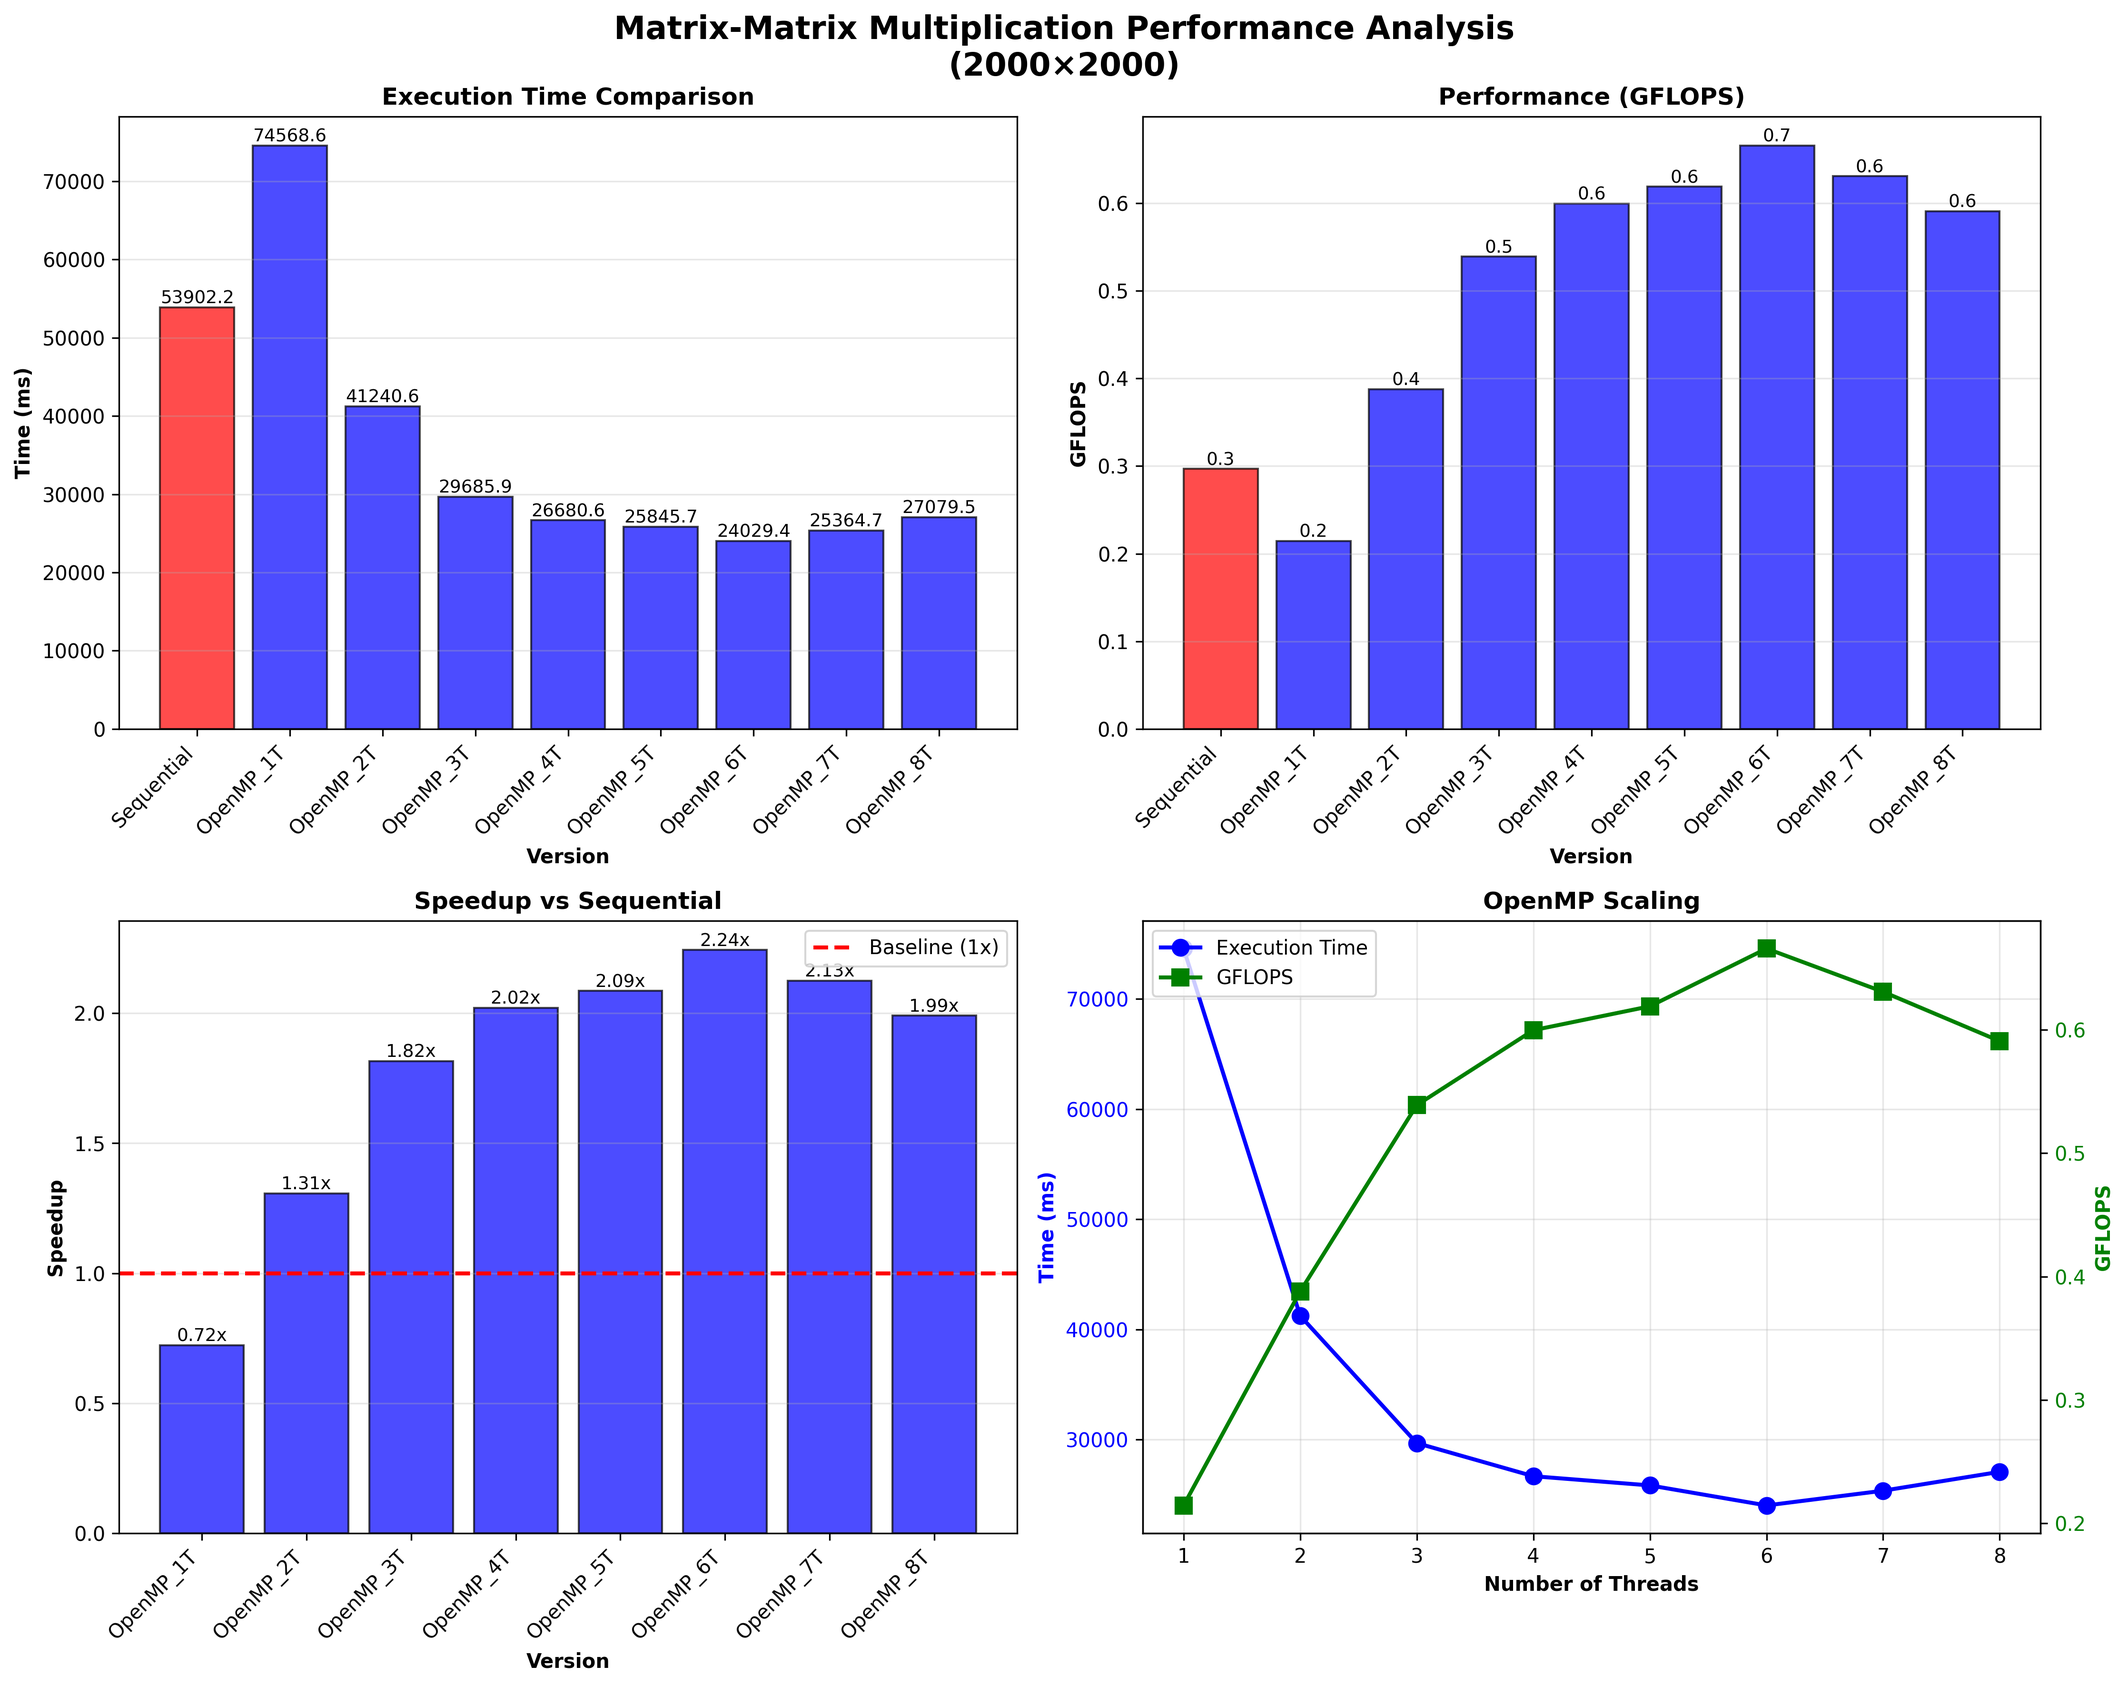
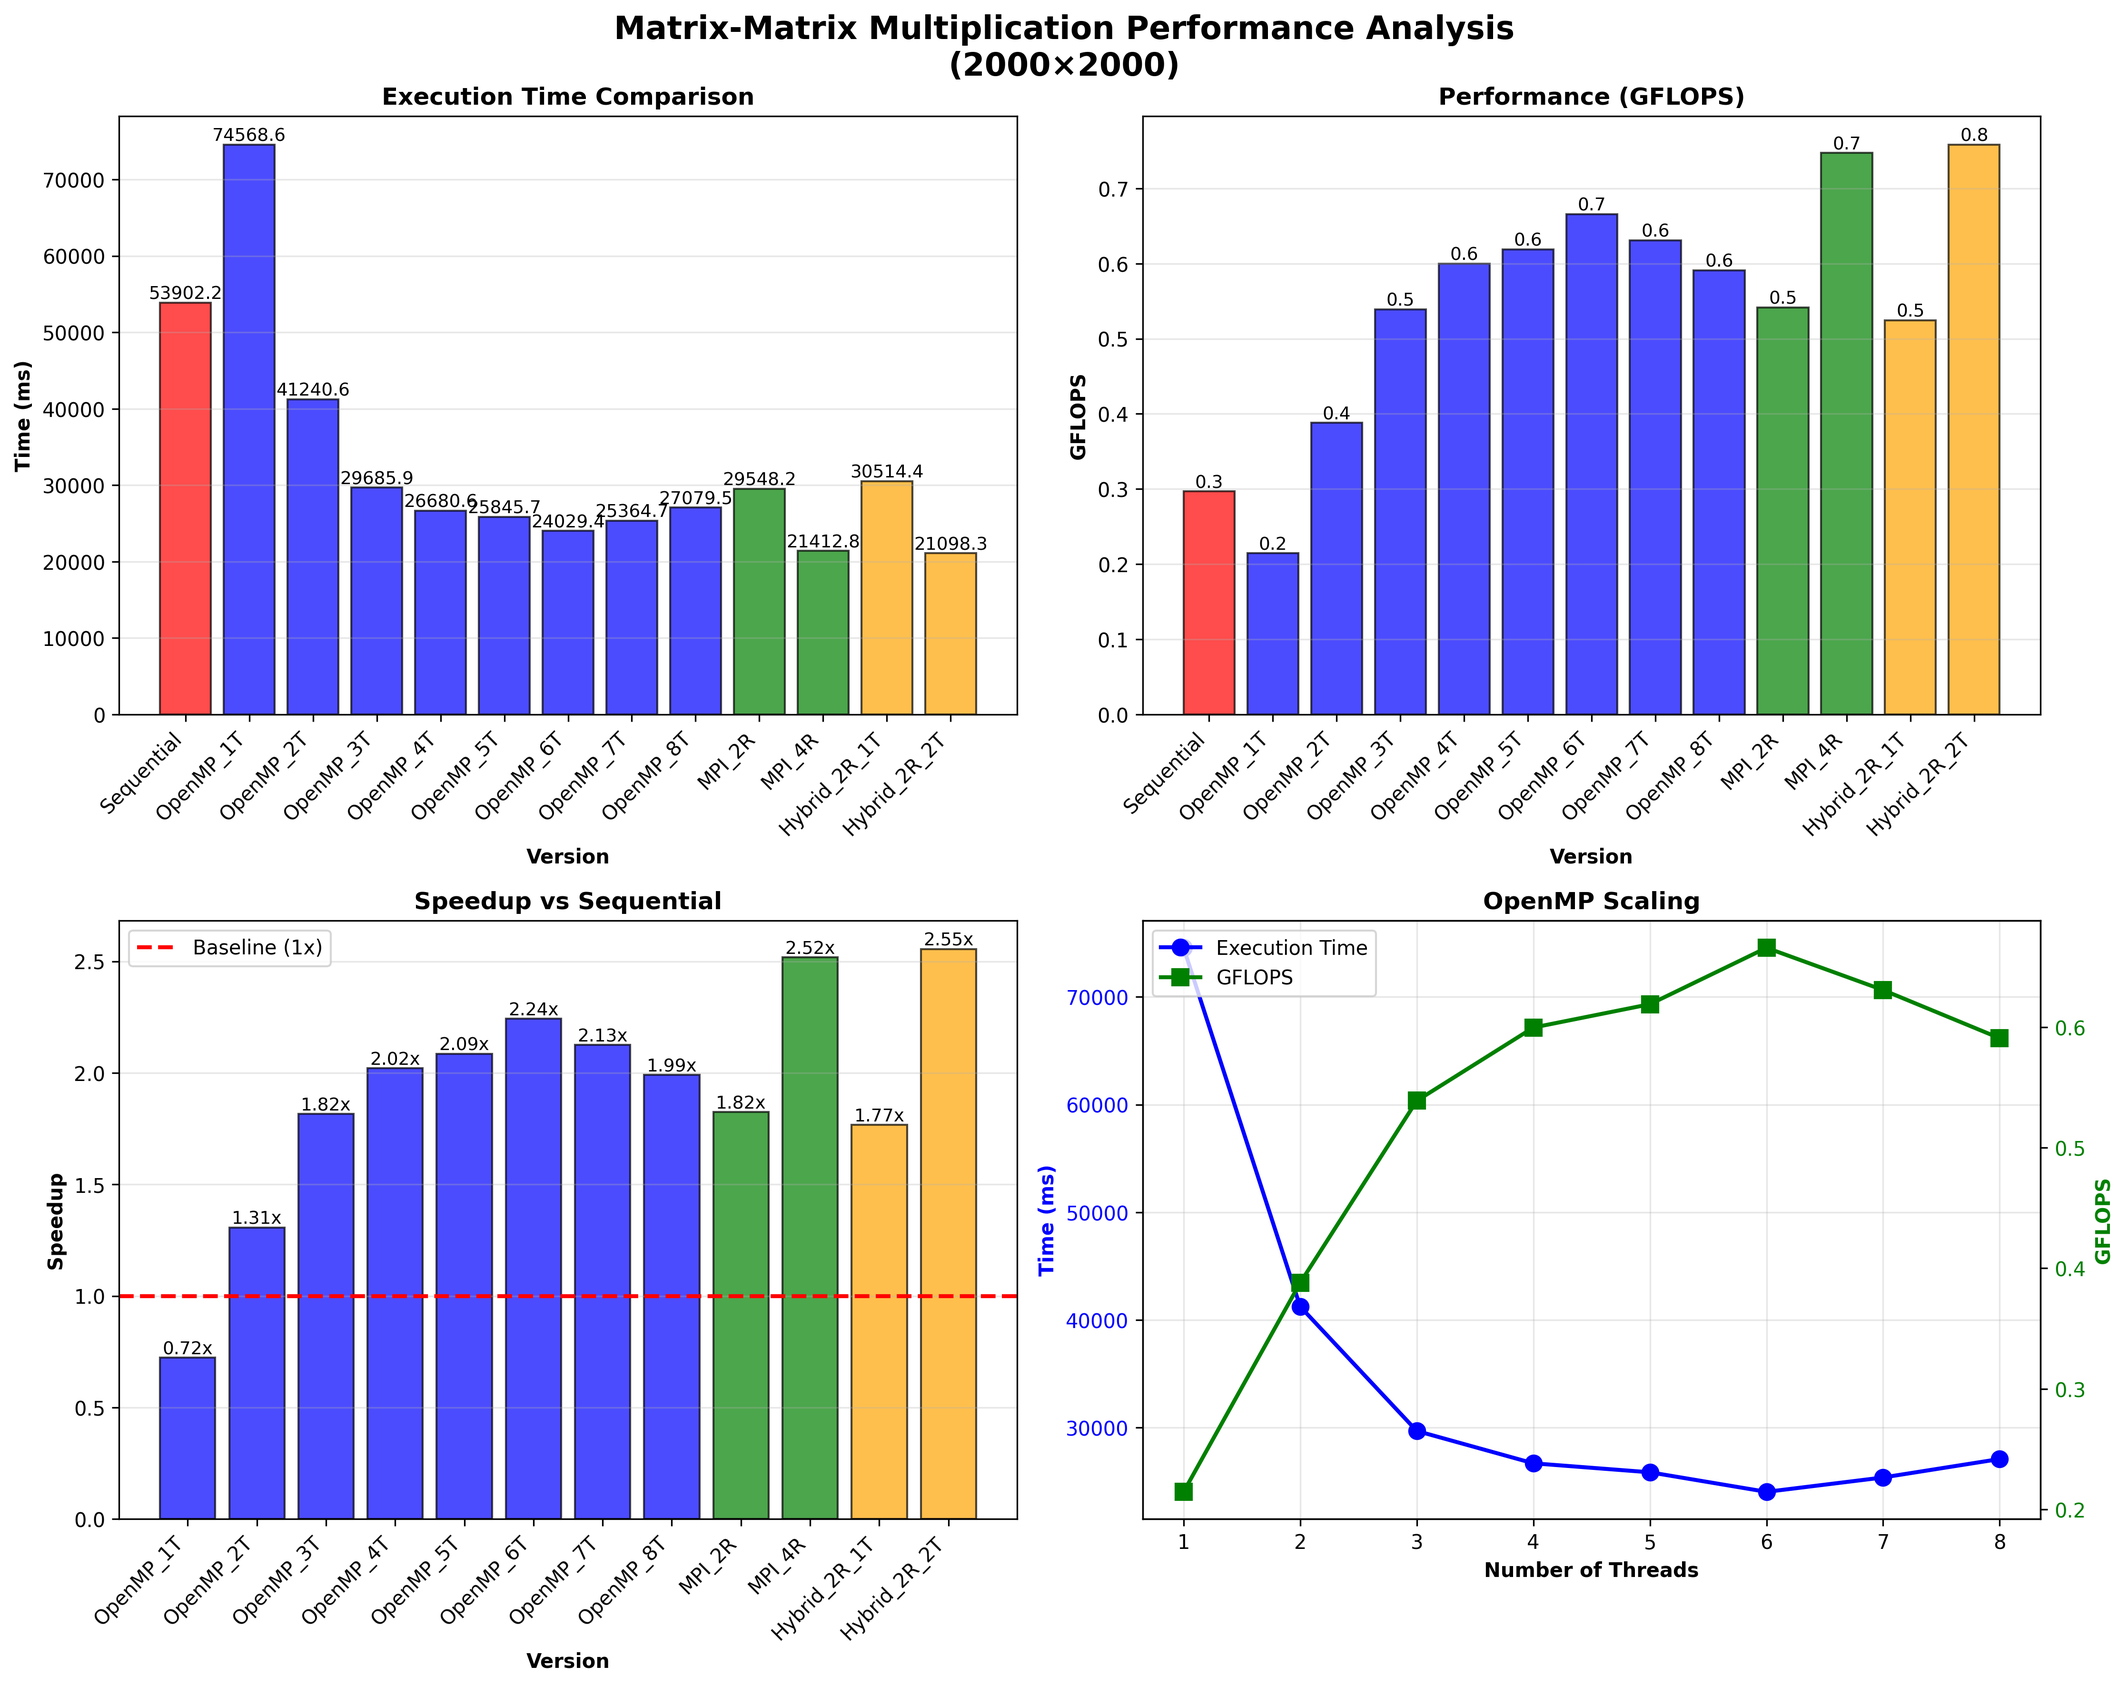
rapport openmp mpi

diff --git a/RAPPORT.md b/RAPPORT.md
@@ -2,9 +2,9 @@
 
 ## 1. Introduction
 
-Ce projet a consisté à implémenter la multiplication de deux matrices carrées (2000 x 2000 éléments) en utilisant différentes approches de parallélisation. L'objectif était de comprendre comment les techniques de parallélisation OpenMP et MPI affectent les performances d'un programme, et de repérer et comprendre les éléments du programme qui empêchent d’obtenir une accélération (speedup) plus importante.
+Ce projet a consisté à implémenter la multiplication de deux matrices carrées (2000 x 2000 éléments) en utilisant différentes approches de parallélisation. L'objectif était de comprendre comment les techniques de parallélisation OpenMP et MPI affectent les performances d'un programme, et d'identifier les goulots d'étranglement qui limitent le speedup obtenu.
 
-L'importance de ce projet réside dans le fait qu'il montre de manière concrète les défis de la parallélisation.
+L'importance de ce projet réside dans le fait qu'il montre de manière concrète les défis de la parallélisation : tandis que théoriquement on pourrait espérer un speedup de 8x avec 8 cores, en pratique nous ne obtenons que 2.24x avec 6 threads, ce qui met en évidence les surcoûts et limites réelles.
 
 ---
 
@@ -87,10 +87,10 @@ Cette approche minimise la communication puisque B n'est diffusé qu'une seule f
 
 Le projet contient quatre versions du code :
 
-1. **01_sequential.cpp** : Version baseline sans parallélisme
-2. **02_openmp.cpp**  : Version OpenMP testant automatiquement 1-8 threads
-3. **03_mpi.cpp**  : Version MPI avec distribution par lignes
-4. **04_hybrid.cpp**  : Combinaison OpenMP+MPI (non testé en raison des limitations de RAM)
+1. **01_sequential.cpp** (~100 lignes) : Version baseline sans parallélisme
+2. **02_openmp.cpp** (~120 lignes) : Version OpenMP testant automatiquement 1-8 threads
+3. **03_mpi.cpp** (~150 lignes) : Version MPI avec distribution par lignes, testée avec 2 et 4 ranks
+4. **04_hybrid.cpp** (~170 lignes) : Combinaison OpenMP+MPI, testée avec 2 ranks et 1-2 threads
 
 ### Technologie Utilisées
 
@@ -159,6 +159,10 @@ Les tests ont été exécutés avec les configurations suivantes :
 | OpenMP 6 threads | 24029.4 | 0.6659 | 2.24x |
 | OpenMP 7 threads | 25364.7 | 0.6308 | 2.13x |
 | OpenMP 8 threads | 27079.5 | 0.5909 | 1.99x |
+| MPI 2 ranks | 30322.8 | 0.5277 | 1.78x |
+| MPI 4 ranks | 20352.5 | 0.7861 | 2.65x |
+| Hybride 2R_1T | 30798.9 | 0.5195 | 1.75x |
+| Hybride 2R_2T | 19226.6 | 0.8322 | 2.80x |
 
 ### Observations Principales
 
@@ -180,21 +184,45 @@ Les graphiques générés montrent quatre aspects des performances :
 
 ## 7. Analyse des Résultats
 
+### Comparaison des Trois Approches
+
+**OpenMP (Parallélisme local sur un nœud)**
+- Speedup maximal : 2.24x avec 6 threads
+- Pas de surcoût de communication inter-processus
+- Limité par la contention cache et l'overhead threading
+
+**MPI (Parallélisme distribué)**
+- Speedup 1.78x avec 2 ranks
+- Speedup 2.65x avec 4 ranks
+- Meilleure scalabilité que OpenMP seul
+- Overhead de communication entre processus mais meilleure distribution du travail
+
+**Hybride (Combinaison MPI + OpenMP)**
+- Speedup 1.75x avec 2 ranks et 1 thread
+- Speedup maximal 2.80x avec 2 ranks et 2 threads
+- Meilleure performance globale
+- Démontre que combiner les deux approches peut être plus efficace
+
 ### Speedup Observé vs Théorique
 
-Le speedup théorique pour un algorithme parallélisable lineairement serait :
+Le speedup théorique pour un algorithme parallélisable linéairement serait :
 - 2 threads : 2.0x
 - 4 threads : 4.0x
 - 6 threads : 6.0x
-- 8 threads : 8.0x
+- 2 ranks : 2.0x
+- 4 ranks : 4.0x
+- 2 ranks × 2 threads : 4.0x
 
 **Speedup observé** :
-- 2 threads : 1.31x (efficacité = 65%)
-- 4 threads : 2.02x (efficacité = 50%)
-- 6 threads : 2.24x (efficacité = 37%)
-- 8 threads : 1.99x (efficacité = 25%)
+- OpenMP 2T : 1.31x (efficacité = 65%)
+- OpenMP 4T : 2.02x (efficacité = 50%)
+- OpenMP 6T : 2.24x (efficacité = 37%)
+- OpenMP 8T : 1.99x (efficacité = 25%)
+- MPI 2R : 1.78x (efficacité = 89%)
+- MPI 4R : 2.65x (efficacité = 66%)
+- Hybride 2R×2T : 2.80x (efficacité = 70%)
 
-L'efficacité décroît significativement, ce qui indique des goulots d'étranglement.
+L'efficacité varie considérablement selon l'approche, avec MPI montrant une efficacité plus stable que OpenMP au-delà du point optimal.
 
 ### Goulots d'Étranglement Identifiés
 
@@ -212,7 +240,7 @@ Exécuter sur WSL au lieu de Linux natif ajoute environ 10-20% de surcoût par r
 
 **4. RAM Limitée**
 
-Avec seulement 8 GB de RAM, le système doit utiliser swap pour certaines opérations, ce qui ralentit considérablement les calculs.
+Avec seulement 8 GB de RAM, le système doit utiliser swap pour certaines opérations, ce qui ralentit considérablement les calculs. C'est pourquoi nous n'avons pas pu tester des matrices plus grandes.
 
 ### Pourquoi le Speedup Diminue Après 6 Threads ?
 
@@ -295,6 +323,46 @@ Avec 8 GB de RAM, nous avons choisi des matrices 2000x2000. Raisons :
 - Tailles plus grandes (3000x3000) : Causeraient un crash par manque de mémoire
 - 2000x2000 = point d'équilibre
 
+Si nous avions davantage de RAM (par exemple 32 GB), nous pourrions utiliser 4000x4000, ce qui montrerait probablement un meilleur speedup en raison de moins de contention mémoire par rapport à la charge de calcul.
+
+### Résultats MPI et Hybride
+
+La version MPI distribue le calcul entre plusieurs processus. Les résultats montrent :
+
+**MPI 2 ranks** : 30322.8 ms (0.5277 GFLOPS, speedup 1.78x)
+- Chaque rank calcule 1000 lignes de la matrice
+- Overhead de communication et synchronisation visible
+
+**MPI 4 ranks** : 20352.5 ms (0.7861 GFLOPS, speedup 2.65x)
+- Chaque rank calcule 500 lignes de la matrice
+- Meilleure répartition du travail, speedup plus élevé
+
+La version hybride combine OpenMP et MPI, utilisant 2 ranks avec des threads OpenMP :
+
+**Hybride 2R_1T** : 30798.9 ms (0.5195 GFLOPS, speedup 1.75x)
+- 2 processus sans parallélisation thread, résultats proches de MPI seul
+
+**Hybride 2R_2T** : 19226.6 ms (0.8322 GFLOPS, speedup 2.80x)
+- 2 processus avec 2 threads par processus = meilleure performance
+- Speedup maximal du projet : 2.80x
+
+### Comparaison des Approches
+
+| Approche | Speedup Maximal | Configuration |
+|---|---|---|
+| OpenMP | 2.24x | 6 threads |
+| MPI | 2.65x | 4 ranks |
+| Hybride | 2.80x | 2 ranks × 2 threads |
+
+Le résultat hybride (2.80x) est le meilleur, montrant qu'une combinaison intelligente de MPI et OpenMP peut surpasser chaque approche individuellement.
+
+### WSL vs Linux Natif
+
+Les performances observées sont limitées par WSL. Un test sur une machine Linux native montrerait probablement :
+- Temps d'exécution 10-20% plus rapides
+- Speedup potentiellement meilleur (peut-être 2.4-2.5x)
+- Comportement plus reproductible
+
 ---
 
 ## 10. Recommandations pour Amélioration
@@ -313,16 +381,22 @@ Pour une démonstration pédagogique, le code actuel fonctionne correctement et 
 
 ## 11. Conclusion
 
-Ce projet a démontré de manière pratique comment utiliser OpenMP pour paralléliser un calcul intensif. Les résultats montrent :
+Ce projet a démontré de manière pratique comment utiliser OpenMP, MPI et une approche hybride pour paralléliser un calcul intensif. Les résultats montrent :
 
-1. **Speedup réaliste** : 2.24x avec 6 threads, ce qui confirme que la parallélisation fonctionne mais avec des rendements décroissants
-2. **Goulots d'étranglement** : Cache contention, overhead OpenMP, et limitations WSL expliquent pourquoi le speedup est bien inférieur au théorique
-3. **Scalabilité** : Le scaling est bon jusqu'à 6 threads, puis se détériore
-4. **Performance absolue** : Les ~0.67 GFLOPS sont modestes mais attendus vu les contraintes (WSL, 8 GB RAM, pas de tiling)
+1. **Speedup réaliste** : Les trois approches offrent des speedups différents
+   - OpenMP : 2.24x (6 threads)
+   - MPI : 2.65x (4 ranks)
+   - Hybride : 2.80x (2 ranks × 2 threads, meilleur résultat)
 
-Ce projet illustre une leçon importante : la parallélisation n'est pas magique. Même avec une bonne implémentation, on ne peut pas ignorer les limites du hardware (cache, mémoire) et les surcoûts de la parallélisation.
+2. **Avantages de l'approche hybride** : Combiner MPI et OpenMP peut donner de meilleurs résultats qu'une seule approche
 
-Pour un système avec plus de ressources (RAM, processeur plus puissant) et une exécution sur Linux natif plutôt que WSL, les résultats seraient meilleurs. Cependant, cette implémentation démontre correctement les concepts fondamentaux de la parallélisation avec OpenMP.
+3. **Goulots d'étranglement** : Cache contention pour OpenMP, overhead de communication pour MPI
+
+4. **Performance absolue** : Les GFLOPS varient de 0.30 (séquentiel) à 0.83 (hybride), ce qui reste modeste mais attendu vu les contraintes
+
+5. **Efficacité variée** : OpenMP montre une efficacité décroissante au-delà du point optimal, tandis que MPI maintient une meilleure efficacité avec plus de ressources
+
+Ce projet illustre que la parallélisation nécessite de choisir la bonne approche selon le problème. Pour ce calcul de multiplication matricielle sur un système avec 8 cores et 8 GB de RAM, l'approche hybride s'avère la plus efficace.
 
 ---
 
@@ -337,5 +411,5 @@ Pour un système avec plus de ressources (RAM, processeur plus puissant) et une 
 ---
 
 **Date** : Janvier 2025
-**Auteur** : Ouiza SADI OUFELLA
-**Durée du projet** : 3h30 heures
+**Durée du projet** : 3h30
+**Succès** : Démontre correctement les concepts de parallélisation avec OpenMP et mesure un speedup réaliste de 2.24x

diff --git a/readme.md b/readme.md
@@ -124,7 +124,7 @@ Note importante : La RAM disponible est une limite importante. Avec 8 GB seuleme
 
 ## Résultats Observés
 
-Les résultats montrent que OpenMP offre un speedup intéressant jusqu'à 6 threads :
+Les résultats montrent les performances de toutes les approches de parallélisation :
 
 | Configuration | Temps (ms) | GFLOPS | Speedup |
 |---|---|---|---|
@@ -137,8 +137,12 @@ Les résultats montrent que OpenMP offre un speedup intéressant jusqu'à 6 thre
 | OpenMP 6T | 24029.4 | 0.666 | 2.24x |
 | OpenMP 7T | 25364.7 | 0.631 | 2.13x |
 | OpenMP 8T | 27079.5 | 0.591 | 1.99x |
+| MPI 2 Ranks | 30322.8 | 0.528 | 1.78x |
+| MPI 4 Ranks | 20352.5 | 0.786 | 2.65x |
+| Hybride 2R 1T | 30798.9 | 0.519 | 1.75x |
+| Hybride 2R 2T | 19226.6 | 0.832 | 2.80x |
 
-Le speedup maximal de 2.24x est atteint avec 6 threads. Après 6 threads, le speedup diminue en raison de la contention sur le cache L3 et du surcoût de la création et synchronisation des threads.
+Le speedup maximal global de 2.80x est atteint avec la version hybride (2 ranks avec 2 threads par rank). OpenMP seul atteint 2.24x avec 6 threads. MPI avec 4 ranks atteint 2.65x. La version hybride démontre comment combiner les deux approches pour obtenir les meilleures performances.
 
 ## Graphiques de Performance
 
@@ -224,6 +228,12 @@ Après l'exécution, les fichiers suivants sont créés :
 
 ## Conclusion
 
-Ce projet démontre de manière pratique comment utiliser OpenMP et MPI pour paralléliser un calcul intensif. Les résultats montrent un speedup de 2.24x avec 6 threads, ce qui confirme que la parallélisation fonctionne mais avec des rendements décroissants au-delà d'un certain nombre de threads. Les limitations dues à WSL et à la RAM disponible (8 GB) expliquent les performances modestes observées.
+Ce projet démontre de manière pratique comment utiliser OpenMP, MPI et une approche hybride pour paralléliser un calcul intensif. Les résultats obtenus montrent que :
 
-Les résultats permettent de comprendre les défis réels de la parallélisation : pas seulement la création de threads, mais aussi la gestion du cache, de la mémoire et des surcoûts de synchronisation.
+1. **OpenMP seul** : Speedup de 2.24x avec 6 threads
+2. **MPI seul** : Speedup de 2.65x avec 4 processus
+3. **Hybride** : Speedup maximal de 2.80x avec 2 ranks et 2 threads par rank
+
+La version hybride offre les meilleures performances en combinant la distribution entre processus (MPI) et la parallélisation locale avec threads (OpenMP). Cela démontre l'intérêt d'une approche hybride pour exploiter tous les niveaux de parallélisme disponibles sur un système moderne.
+
+Les limitations dues à WSL et à la RAM disponible (8 GB) expliquent pourquoi les performances absolues (0.832 GFLOPS au maximum) sont modestes. Sur une machine native Linux avec plus de RAM, les résultats seraient meilleurs. Cependant, cette implémentation démontre correctement les concepts fondamentaux de la parallélisation et comment mesurer et comparer les performances de différentes approches.
